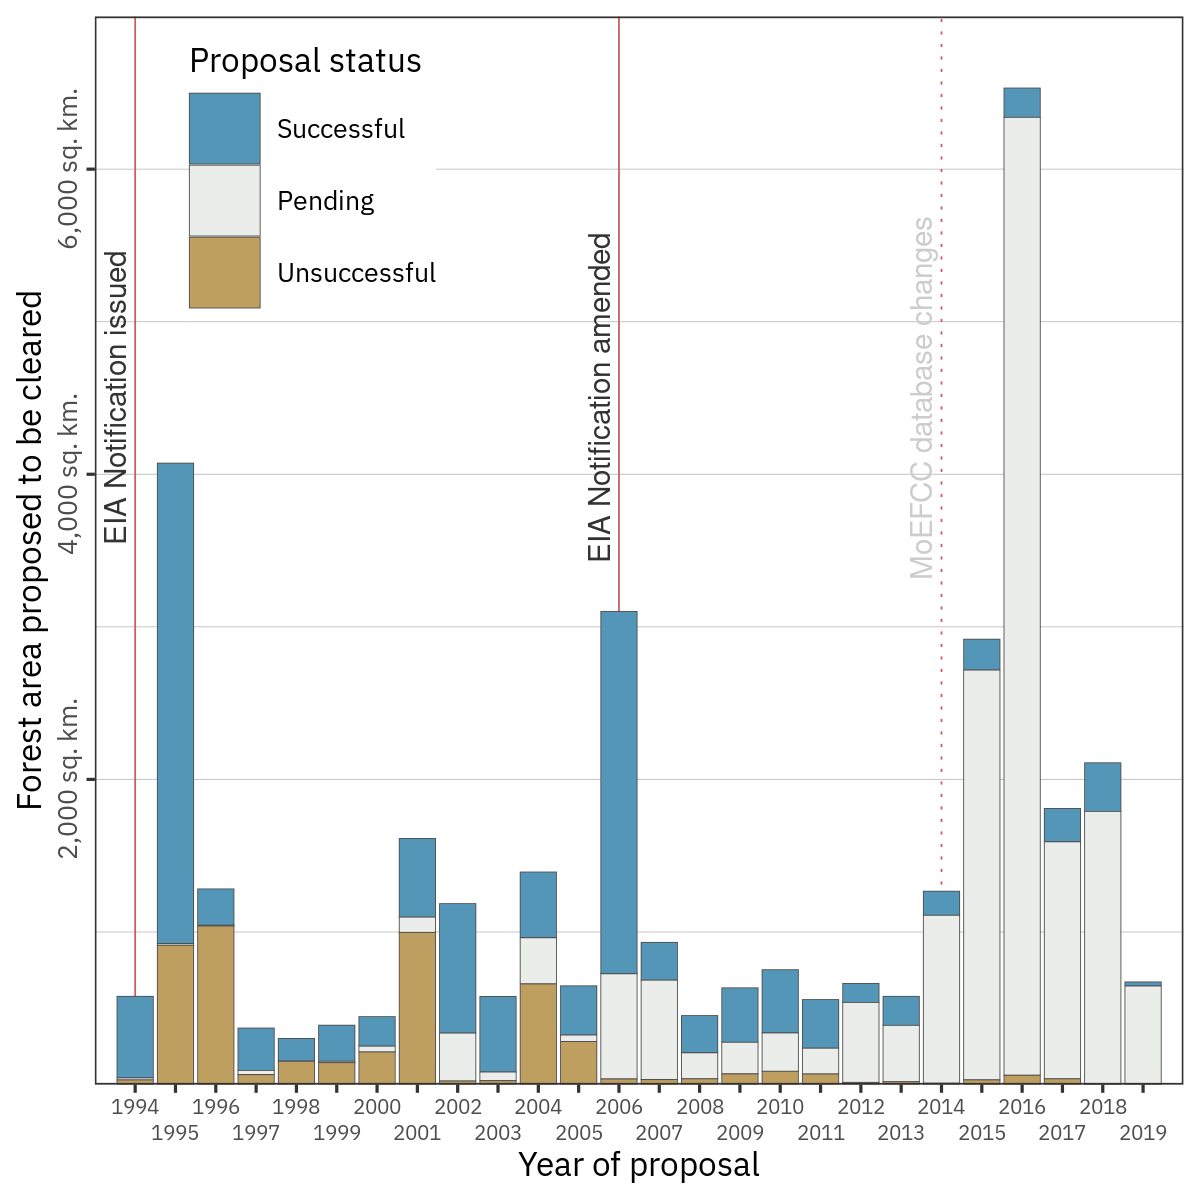
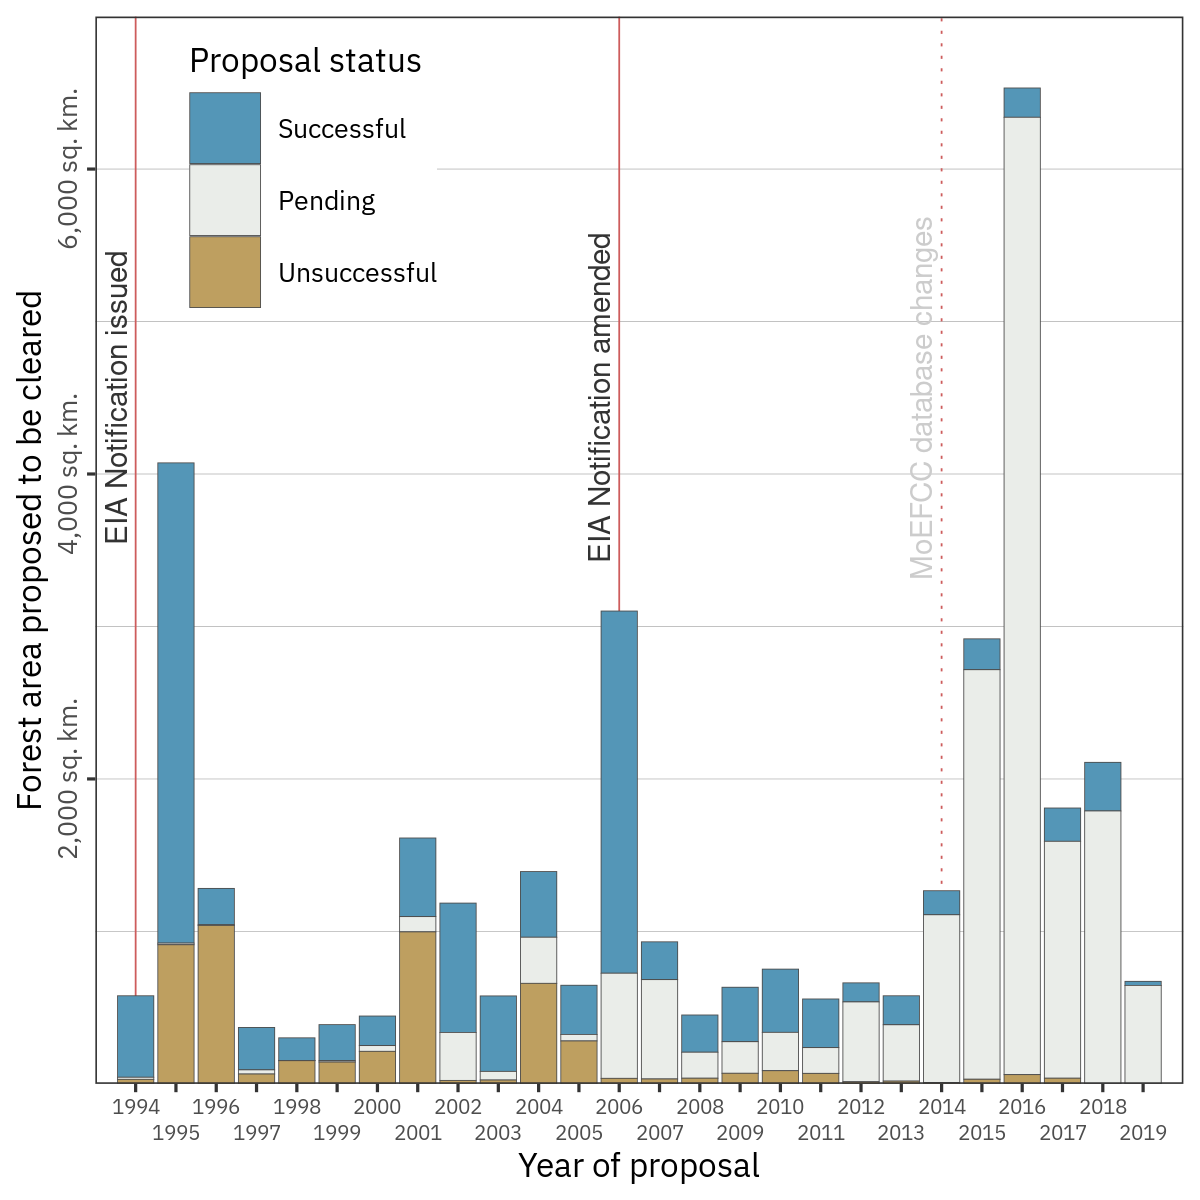
update bookdown

diff --git a/docs/an-analysis-of-forest-clearances.html b/docs/an-analysis-of-forest-clearances.html
@@ -338,51 +338,52 @@ code span.wa { color: #60a0b0; font-weight: bold; font-style: italic; } /* Warni
 <h3><span class="header-section-number">2.2.2</span> Area applied for over years</h3>
 <div class="sourceCode" id="cb12"><pre class="sourceCode r"><code class="sourceCode r"><a class="sourceLine" id="cb12-1" title="1">  <span class="kw">ggplot</span>() <span class="op">+</span></a>
 <a class="sourceLine" id="cb12-2" title="2"><span class="st">  </span><span class="kw">geom_vline</span>(<span class="dt">xintercept =</span> <span class="kw">c</span>(<span class="kw">c</span>(<span class="dv">1994</span>, <span class="dv">2006</span>, <span class="dv">2014</span>)),</a>
-<a class="sourceLine" id="cb12-3" title="3">             <span class="dt">col =</span> <span class="st">&quot;indianred&quot;</span>, <span class="dt">size =</span> <span class="fl">0.2</span>) <span class="op">+</span></a>
-<a class="sourceLine" id="cb12-4" title="4"><span class="st">  </span><span class="kw">stat_count</span>(<span class="dt">data =</span> forest_data <span class="op">%&gt;%</span><span class="st"> </span></a>
-<a class="sourceLine" id="cb12-5" title="5"><span class="st">               </span><span class="kw">filter</span>(<span class="op">!</span>status <span class="op">%in%</span><span class="st"> &quot;other&quot;</span>),</a>
-<a class="sourceLine" id="cb12-6" title="6">               <span class="kw">aes</span>(<span class="dt">x =</span> year, <span class="dt">fill =</span> status,</a>
-<a class="sourceLine" id="cb12-7" title="7">                   <span class="dt">weight =</span> area_applied <span class="op">*</span><span class="st"> </span><span class="fl">0.01</span>),</a>
-<a class="sourceLine" id="cb12-8" title="8">             <span class="co"># width = 0.75,</span></a>
-<a class="sourceLine" id="cb12-9" title="9">             <span class="dt">size =</span> <span class="fl">0.1</span>,</a>
-<a class="sourceLine" id="cb12-10" title="10">             <span class="dt">geom =</span> <span class="st">&quot;bar&quot;</span>, </a>
-<a class="sourceLine" id="cb12-11" title="11">             <span class="dt">position =</span> <span class="st">&quot;stack&quot;</span>,</a>
-<a class="sourceLine" id="cb12-12" title="12">             <span class="dt">col =</span> <span class="st">&quot;grey30&quot;</span>) <span class="op">+</span></a>
-<a class="sourceLine" id="cb12-13" title="13"><span class="st">  </span><span class="kw">annotate</span>(<span class="st">&quot;text&quot;</span>,</a>
-<a class="sourceLine" id="cb12-14" title="14">           <span class="dt">x =</span> <span class="kw">c</span>(<span class="dv">1994</span>, <span class="dv">2006</span>, <span class="dv">2014</span>)<span class="op">-</span><span class="kw">c</span>(<span class="fl">0.5</span>),</a>
-<a class="sourceLine" id="cb12-15" title="15">           <span class="dt">y =</span> <span class="dv">4500</span>,</a>
-<a class="sourceLine" id="cb12-16" title="16">           <span class="dt">size =</span> <span class="fl">2.5</span>,</a>
-<a class="sourceLine" id="cb12-17" title="17">           <span class="dt">label =</span> <span class="kw">c</span>(<span class="st">&quot;EIA Notification issued&quot;</span>, </a>
-<a class="sourceLine" id="cb12-18" title="18">                     <span class="st">&quot;EIA Notification amended&quot;</span>,</a>
-<a class="sourceLine" id="cb12-19" title="19">                     <span class="st">&quot;MoEFCC database changes&quot;</span>),</a>
-<a class="sourceLine" id="cb12-20" title="20">           <span class="dt">col =</span> <span class="st">&quot;grey20&quot;</span>,</a>
-<a class="sourceLine" id="cb12-21" title="21">           <span class="dt">angle =</span> <span class="dv">90</span>) <span class="op">+</span></a>
-<a class="sourceLine" id="cb12-22" title="22"><span class="st">  </span><span class="kw">scale_x_continuous</span>(<span class="dt">guide =</span> <span class="kw">guide_axis</span>(<span class="dt">n.dodge =</span> <span class="dv">2</span>),</a>
-<a class="sourceLine" id="cb12-23" title="23">                   <span class="dt">label =</span> str_to_title,</a>
-<a class="sourceLine" id="cb12-24" title="24">                   <span class="dt">breaks =</span> <span class="dv">1994</span><span class="op">:</span><span class="dv">2019</span>)<span class="op">+</span></a>
-<a class="sourceLine" id="cb12-25" title="25"><span class="st">  </span><span class="kw">scale_y_continuous</span>(<span class="dt">labels =</span> scales<span class="op">::</span><span class="kw">comma_format</span>(<span class="dt">suffix =</span> <span class="st">&quot; sq. km.&quot;</span>),</a>
-<a class="sourceLine" id="cb12-26" title="26">                     <span class="dt">breaks =</span> <span class="kw">seq</span>(<span class="dv">2</span>,<span class="dv">6</span>,<span class="dv">2</span>)<span class="op">*</span><span class="fl">1e3</span>) <span class="op">+</span></a>
-<a class="sourceLine" id="cb12-27" title="27"><span class="st">  </span><span class="kw">scale_fill_scico_d</span>(<span class="dt">palette =</span> <span class="st">&quot;vik&quot;</span>,</a>
-<a class="sourceLine" id="cb12-28" title="28">                     <span class="dt">begin =</span> <span class="fl">0.3</span>, <span class="dt">end =</span> <span class="fl">0.7</span>,</a>
-<a class="sourceLine" id="cb12-29" title="29">                     <span class="dt">direction =</span> <span class="dv">1</span>,</a>
-<a class="sourceLine" id="cb12-30" title="30">                     <span class="dt">name =</span> <span class="st">&quot;Proposal status&quot;</span>,</a>
-<a class="sourceLine" id="cb12-31" title="31">                     <span class="dt">labels =</span> <span class="kw">c</span>(<span class="st">&quot;Successful&quot;</span>, <span class="st">&quot;Pending&quot;</span>, <span class="st">&quot;Unsuccessful&quot;</span>)) <span class="op">+</span></a>
-<a class="sourceLine" id="cb12-32" title="32"><span class="st">  </span><span class="kw">theme_test</span>(<span class="dt">base_family =</span> <span class="st">&quot;IBM Plex Sans&quot;</span>,</a>
-<a class="sourceLine" id="cb12-33" title="33">             <span class="dt">base_size =</span> <span class="dv">8</span>)<span class="op">+</span></a>
-<a class="sourceLine" id="cb12-34" title="34"><span class="st">  </span><span class="kw">theme</span>(<span class="dt">legend.position =</span> <span class="kw">c</span>(<span class="fl">0.2</span>,<span class="fl">0.85</span>),</a>
-<a class="sourceLine" id="cb12-35" title="35">        <span class="dt">axis.text.y =</span> <span class="kw">element_text</span>(<span class="dt">angle =</span> <span class="dv">90</span>,</a>
-<a class="sourceLine" id="cb12-36" title="36">                                   <span class="dt">hjust =</span> <span class="fl">0.5</span>),</a>
-<a class="sourceLine" id="cb12-37" title="37">        <span class="dt">axis.text.x =</span> <span class="kw">element_text</span>(<span class="dt">size =</span> <span class="dv">5</span>),</a>
-<a class="sourceLine" id="cb12-38" title="38">        <span class="dt">panel.grid.major.y =</span> <span class="kw">element_line</span>(<span class="dt">size =</span> <span class="fl">0.1</span>,</a>
-<a class="sourceLine" id="cb12-39" title="39">                                          <span class="dt">colour =</span> <span class="st">&quot;grey&quot;</span>),</a>
-<a class="sourceLine" id="cb12-40" title="40">        <span class="dt">panel.grid.minor.y =</span> <span class="kw">element_line</span>(<span class="dt">size =</span> <span class="fl">0.1</span>,</a>
-<a class="sourceLine" id="cb12-41" title="41">                                          <span class="dt">colour =</span> <span class="st">&quot;grey&quot;</span>))<span class="op">+</span></a>
-<a class="sourceLine" id="cb12-42" title="42"><span class="st">  </span><span class="co"># facet_grid(~period, scales = &quot;free_x&quot;) +</span></a>
-<a class="sourceLine" id="cb12-43" title="43"><span class="st">  </span><span class="kw">coord_cartesian</span>(<span class="dt">xlim =</span> <span class="kw">c</span>(<span class="dv">1993</span>, <span class="dv">2020</span>),</a>
-<a class="sourceLine" id="cb12-44" title="44">                  <span class="dt">ylim =</span> <span class="kw">c</span>(<span class="dv">0</span>, <span class="dv">7000</span>),</a>
-<a class="sourceLine" id="cb12-45" title="45">                  <span class="dt">expand =</span> F) <span class="op">+</span></a>
-<a class="sourceLine" id="cb12-46" title="46"><span class="st">  </span><span class="kw">labs</span>(<span class="dt">x =</span> <span class="st">&quot;Year of proposal&quot;</span>,</a>
-<a class="sourceLine" id="cb12-47" title="47">       <span class="dt">y =</span> <span class="st">&quot;Forest area proposed to be cleared&quot;</span>)</a></code></pre></div>
+<a class="sourceLine" id="cb12-3" title="3">             <span class="dt">col =</span> <span class="st">&quot;indianred&quot;</span>, <span class="dt">size =</span> <span class="fl">0.2</span>,</a>
+<a class="sourceLine" id="cb12-4" title="4">             <span class="dt">lty =</span> <span class="kw">c</span>(<span class="dv">1</span>, <span class="dv">1</span>, <span class="dv">3</span>)) <span class="op">+</span></a>
+<a class="sourceLine" id="cb12-5" title="5"><span class="st">  </span><span class="kw">stat_count</span>(<span class="dt">data =</span> forest_data <span class="op">%&gt;%</span><span class="st"> </span></a>
+<a class="sourceLine" id="cb12-6" title="6"><span class="st">               </span><span class="kw">filter</span>(<span class="op">!</span>status <span class="op">%in%</span><span class="st"> &quot;other&quot;</span>),</a>
+<a class="sourceLine" id="cb12-7" title="7">               <span class="kw">aes</span>(<span class="dt">x =</span> year, <span class="dt">fill =</span> status,</a>
+<a class="sourceLine" id="cb12-8" title="8">                   <span class="dt">weight =</span> area_applied <span class="op">*</span><span class="st"> </span><span class="fl">0.01</span>),</a>
+<a class="sourceLine" id="cb12-9" title="9">             <span class="co"># width = 0.75,</span></a>
+<a class="sourceLine" id="cb12-10" title="10">             <span class="dt">size =</span> <span class="fl">0.1</span>,</a>
+<a class="sourceLine" id="cb12-11" title="11">             <span class="dt">geom =</span> <span class="st">&quot;bar&quot;</span>, </a>
+<a class="sourceLine" id="cb12-12" title="12">             <span class="dt">position =</span> <span class="st">&quot;stack&quot;</span>,</a>
+<a class="sourceLine" id="cb12-13" title="13">             <span class="dt">col =</span> <span class="st">&quot;grey30&quot;</span>) <span class="op">+</span></a>
+<a class="sourceLine" id="cb12-14" title="14"><span class="st">  </span><span class="kw">annotate</span>(<span class="st">&quot;text&quot;</span>,</a>
+<a class="sourceLine" id="cb12-15" title="15">           <span class="dt">x =</span> <span class="kw">c</span>(<span class="dv">1994</span>, <span class="dv">2006</span>, <span class="dv">2014</span>)<span class="op">-</span><span class="kw">c</span>(<span class="fl">0.5</span>),</a>
+<a class="sourceLine" id="cb12-16" title="16">           <span class="dt">y =</span> <span class="dv">4500</span>,</a>
+<a class="sourceLine" id="cb12-17" title="17">           <span class="dt">size =</span> <span class="fl">2.5</span>,</a>
+<a class="sourceLine" id="cb12-18" title="18">           <span class="dt">label =</span> <span class="kw">c</span>(<span class="st">&quot;EIA Notification issued&quot;</span>, </a>
+<a class="sourceLine" id="cb12-19" title="19">                     <span class="st">&quot;EIA Notification amended&quot;</span>,</a>
+<a class="sourceLine" id="cb12-20" title="20">                     <span class="st">&quot;MoEFCC database changes&quot;</span>),</a>
+<a class="sourceLine" id="cb12-21" title="21">           <span class="dt">col =</span> <span class="kw">c</span>(<span class="st">&quot;grey20&quot;</span>, <span class="st">&quot;grey20&quot;</span>, <span class="st">&quot;grey80&quot;</span>),</a>
+<a class="sourceLine" id="cb12-22" title="22">           <span class="dt">angle =</span> <span class="dv">90</span>) <span class="op">+</span></a>
+<a class="sourceLine" id="cb12-23" title="23"><span class="st">  </span><span class="kw">scale_x_continuous</span>(<span class="dt">guide =</span> <span class="kw">guide_axis</span>(<span class="dt">n.dodge =</span> <span class="dv">2</span>),</a>
+<a class="sourceLine" id="cb12-24" title="24">                   <span class="dt">label =</span> str_to_title,</a>
+<a class="sourceLine" id="cb12-25" title="25">                   <span class="dt">breaks =</span> <span class="dv">1994</span><span class="op">:</span><span class="dv">2019</span>)<span class="op">+</span></a>
+<a class="sourceLine" id="cb12-26" title="26"><span class="st">  </span><span class="kw">scale_y_continuous</span>(<span class="dt">labels =</span> scales<span class="op">::</span><span class="kw">comma_format</span>(<span class="dt">suffix =</span> <span class="st">&quot; sq. km.&quot;</span>),</a>
+<a class="sourceLine" id="cb12-27" title="27">                     <span class="dt">breaks =</span> <span class="kw">seq</span>(<span class="dv">2</span>,<span class="dv">6</span>,<span class="dv">2</span>)<span class="op">*</span><span class="fl">1e3</span>) <span class="op">+</span></a>
+<a class="sourceLine" id="cb12-28" title="28"><span class="st">  </span><span class="kw">scale_fill_scico_d</span>(<span class="dt">palette =</span> <span class="st">&quot;vik&quot;</span>,</a>
+<a class="sourceLine" id="cb12-29" title="29">                     <span class="dt">begin =</span> <span class="fl">0.3</span>, <span class="dt">end =</span> <span class="fl">0.7</span>,</a>
+<a class="sourceLine" id="cb12-30" title="30">                     <span class="dt">direction =</span> <span class="dv">1</span>,</a>
+<a class="sourceLine" id="cb12-31" title="31">                     <span class="dt">name =</span> <span class="st">&quot;Proposal status&quot;</span>,</a>
+<a class="sourceLine" id="cb12-32" title="32">                     <span class="dt">labels =</span> <span class="kw">c</span>(<span class="st">&quot;Successful&quot;</span>, <span class="st">&quot;Pending&quot;</span>, <span class="st">&quot;Unsuccessful&quot;</span>)) <span class="op">+</span></a>
+<a class="sourceLine" id="cb12-33" title="33"><span class="st">  </span><span class="kw">theme_test</span>(<span class="dt">base_family =</span> <span class="st">&quot;IBM Plex Sans&quot;</span>,</a>
+<a class="sourceLine" id="cb12-34" title="34">             <span class="dt">base_size =</span> <span class="dv">8</span>)<span class="op">+</span></a>
+<a class="sourceLine" id="cb12-35" title="35"><span class="st">  </span><span class="kw">theme</span>(<span class="dt">legend.position =</span> <span class="kw">c</span>(<span class="fl">0.2</span>,<span class="fl">0.85</span>),</a>
+<a class="sourceLine" id="cb12-36" title="36">        <span class="dt">axis.text.y =</span> <span class="kw">element_text</span>(<span class="dt">angle =</span> <span class="dv">90</span>,</a>
+<a class="sourceLine" id="cb12-37" title="37">                                   <span class="dt">hjust =</span> <span class="fl">0.5</span>),</a>
+<a class="sourceLine" id="cb12-38" title="38">        <span class="dt">axis.text.x =</span> <span class="kw">element_text</span>(<span class="dt">size =</span> <span class="dv">5</span>),</a>
+<a class="sourceLine" id="cb12-39" title="39">        <span class="dt">panel.grid.major.y =</span> <span class="kw">element_line</span>(<span class="dt">size =</span> <span class="fl">0.1</span>,</a>
+<a class="sourceLine" id="cb12-40" title="40">                                          <span class="dt">colour =</span> <span class="st">&quot;grey&quot;</span>),</a>
+<a class="sourceLine" id="cb12-41" title="41">        <span class="dt">panel.grid.minor.y =</span> <span class="kw">element_line</span>(<span class="dt">size =</span> <span class="fl">0.1</span>,</a>
+<a class="sourceLine" id="cb12-42" title="42">                                          <span class="dt">colour =</span> <span class="st">&quot;grey&quot;</span>))<span class="op">+</span></a>
+<a class="sourceLine" id="cb12-43" title="43"><span class="st">  </span><span class="co"># facet_grid(~period, scales = &quot;free_x&quot;) +</span></a>
+<a class="sourceLine" id="cb12-44" title="44"><span class="st">  </span><span class="kw">coord_cartesian</span>(<span class="dt">xlim =</span> <span class="kw">c</span>(<span class="dv">1993</span>, <span class="dv">2020</span>),</a>
+<a class="sourceLine" id="cb12-45" title="45">                  <span class="dt">ylim =</span> <span class="kw">c</span>(<span class="dv">0</span>, <span class="dv">7000</span>),</a>
+<a class="sourceLine" id="cb12-46" title="46">                  <span class="dt">expand =</span> F) <span class="op">+</span></a>
+<a class="sourceLine" id="cb12-47" title="47"><span class="st">  </span><span class="kw">labs</span>(<span class="dt">x =</span> <span class="st">&quot;Year of proposal&quot;</span>,</a>
+<a class="sourceLine" id="cb12-48" title="48">       <span class="dt">y =</span> <span class="st">&quot;Forest area proposed to be cleared&quot;</span>)</a></code></pre></div>
 <div class="figure"><span id="fig:unnamed-chunk-6"></span>
 <img src="Forest-Clearances-India_files/figure-html/unnamed-chunk-6-1.png" alt="Forest area (in sq. km.) proposed for clearance over the years 1994 -- 2019, coloured to show the fraction approved (blue), rejected (brown), and pending decision (grey). Projects applied for nearly twice as much area to be cleared in years when or shortly after a new EIA notification was adopted (1995 and 2006), as in other years. Since the approval rate did not differ significantly among years, 1995 and 2006 saw 814% more forest clearances approved than other years." width="672" />
 <p class="caption">
